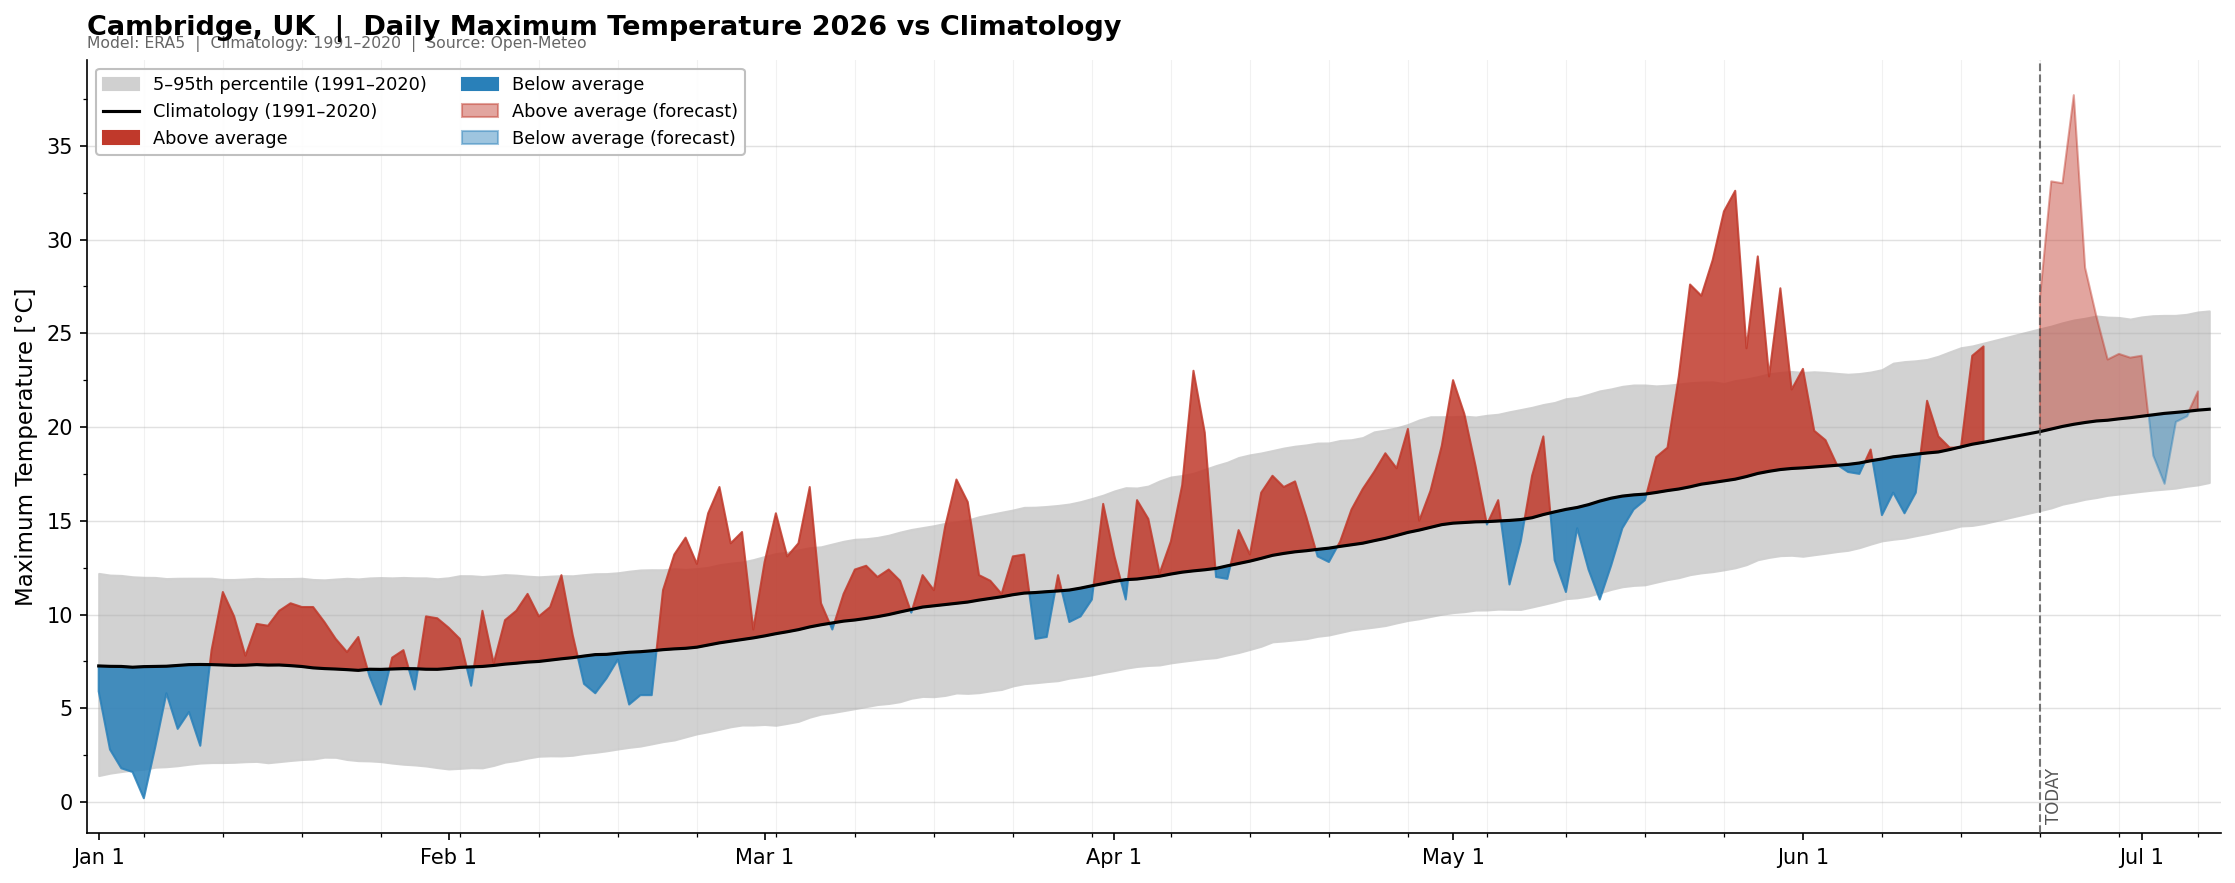
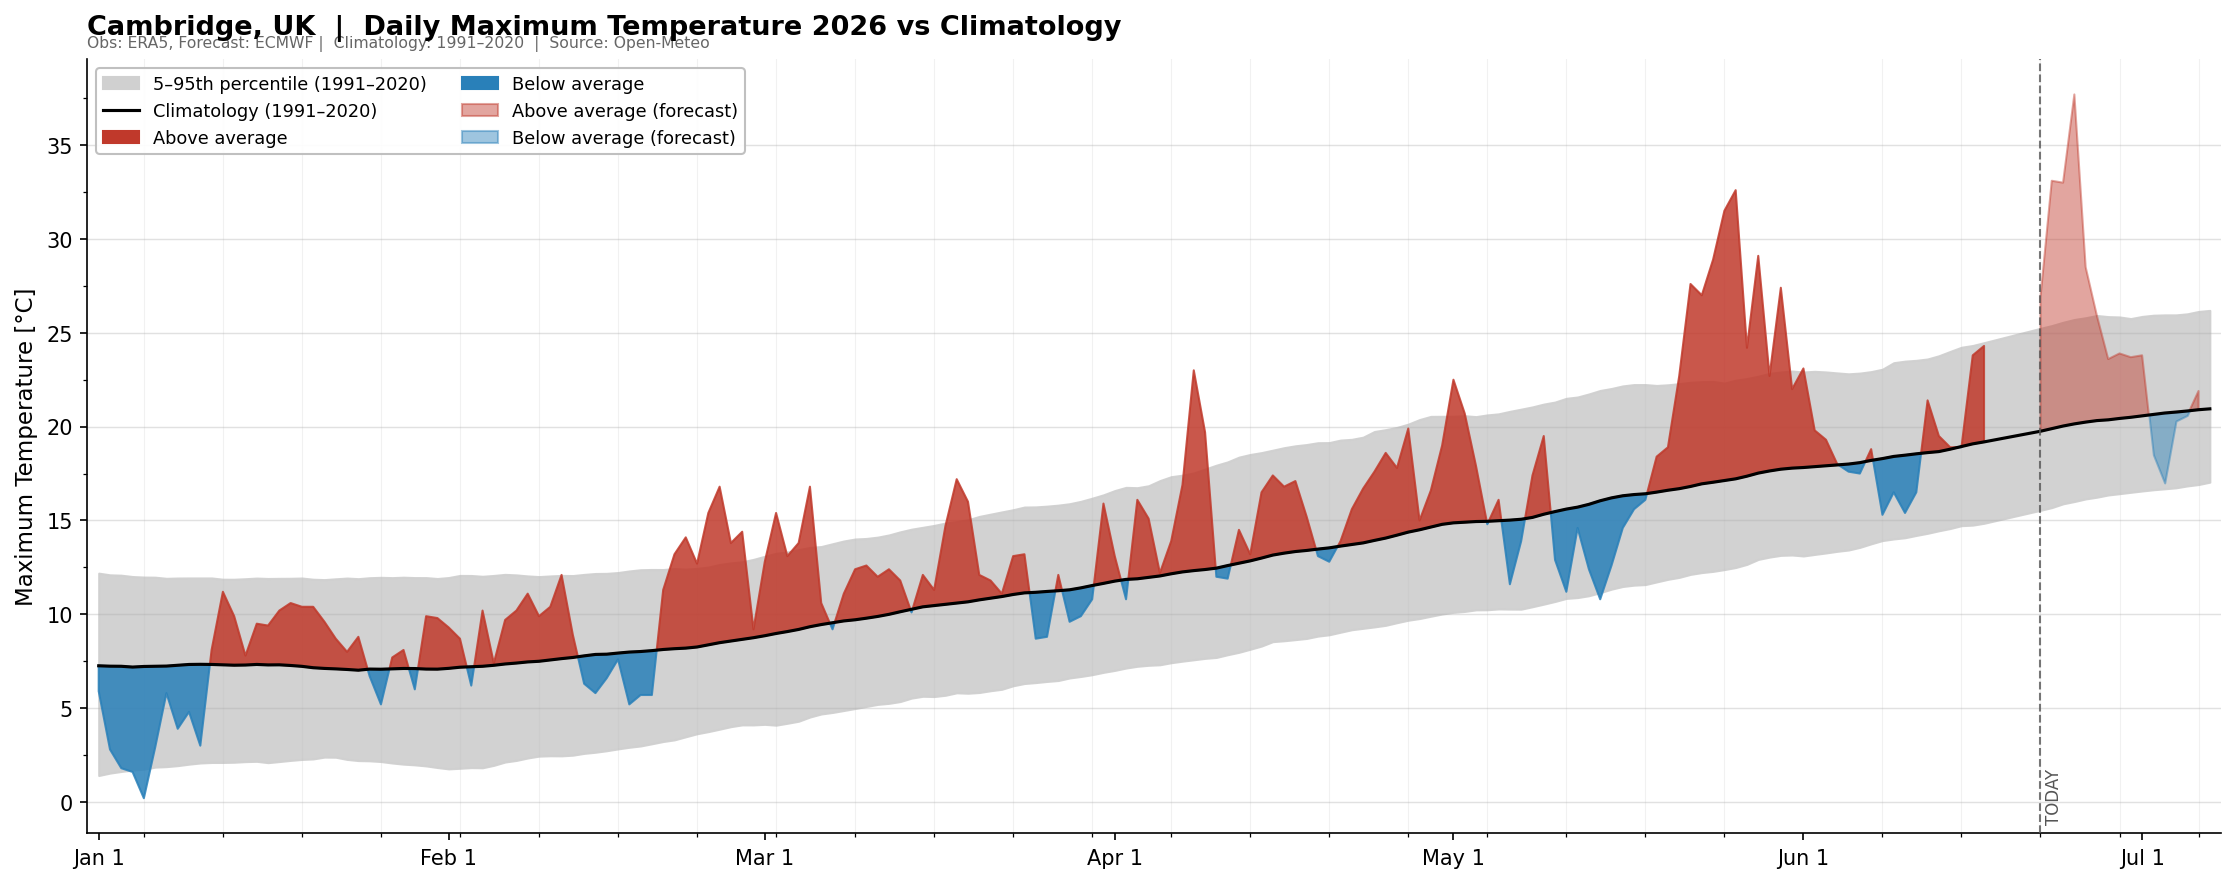
change data info text on plot

diff --git a/cambridge_temperature_climatology.py b/cambridge_temperature_climatology.py
@@ -420,7 +420,7 @@ def plot_temperature_climatology(
         fontsize=13, fontweight="bold", pad=12, loc="left"
     )
     ax.text(0.0, 1.01,
-            f"Model: ERA5  |  Climatology: {clim_start}–{clim_end}  |  Source: Open-Meteo",
+            f"Obs: ERA5, Forecast: ECMWF |  Climatology: {clim_start}–{clim_end}  |  Source: Open-Meteo",
             transform=ax.transAxes, fontsize=7.5, va="bottom", color="#666666")
 
     plt.tight_layout()
